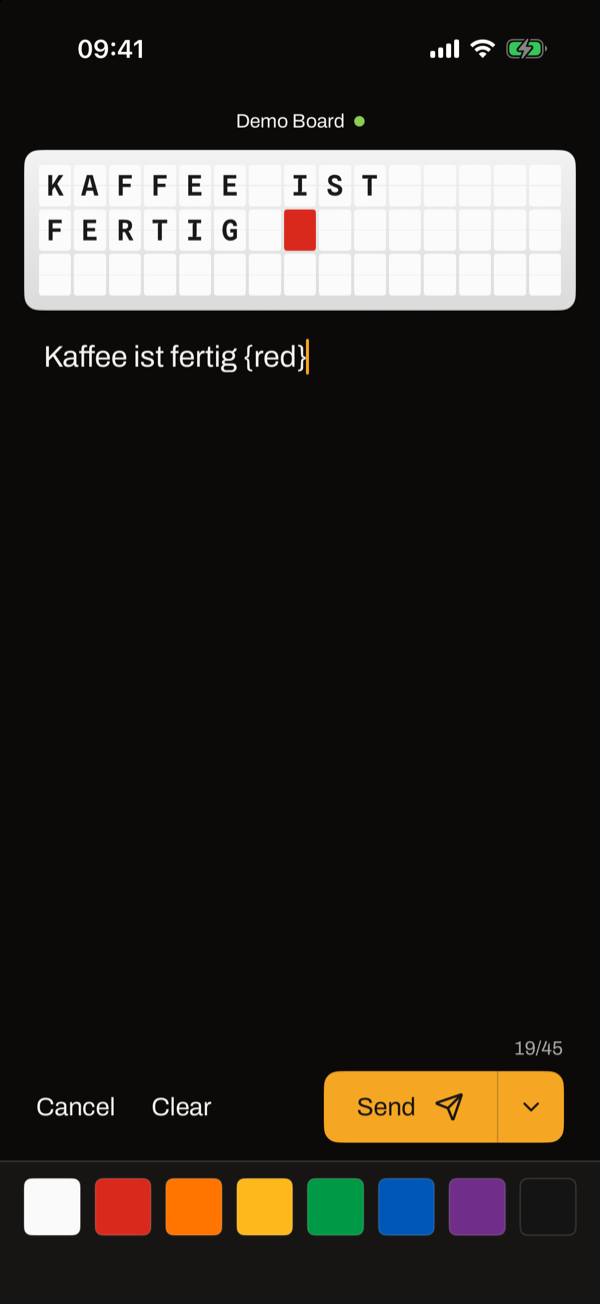
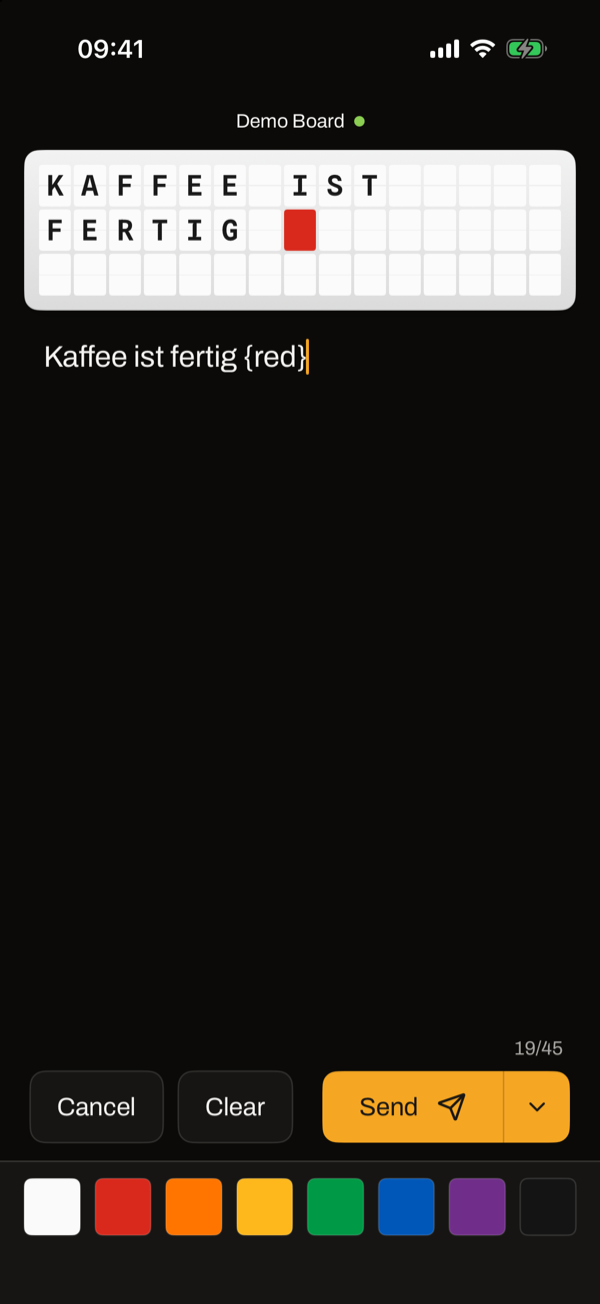
Compose: Cancel and Clear as buttons, in one row with Send where the words fit, else below it
Claude-Session: https://claude.ai/code/session_01FXXeyGX9nkbXjdAycGNCsJ

diff --git a/FiestaBoard/ComposeView.swift b/FiestaBoard/ComposeView.swift
@@ -10,6 +10,22 @@ private struct SendLabelStyle: LabelStyle {
     }
 }
 
+extension View {
+    /// A secondary action as FiestaBoard draws one: outlined, as tall as Send; widening to share a row of its own.
+    func secondaryButton(wide: Bool = false) -> some View {
+        self
+            .font(Style.font(.body))
+            .foregroundStyle(Style.ink)
+            .fixedSize()
+            .padding(.horizontal, 18)
+            .frame(maxWidth: wide ? .infinity : nil)
+            .frame(height: 48)
+            .background(Style.card, in: RoundedRectangle(cornerRadius: Style.radius))
+            .overlay(RoundedRectangle(cornerRadius: Style.radius).stroke(Style.border, lineWidth: 1))
+            .contentShape(Rectangle())
+    }
+}
+
 /// What to start writing from: a new message, a copy of one, or a draft.
 struct ComposeRequest: Identifiable {
     let id = UUID()
@@ -96,56 +112,26 @@ struct ComposeView: View {
             .padding(.horizontal, 24)
             .padding(.vertical, 8)
 
-            HStack(spacing: 24) {
-                Button("Cancel") { dismiss() }
-                    .fixedSize()
-                Button("Clear") { text = "" }
-                    .fixedSize()
-                    .disabled(text.isEmpty)
-                Spacer()
-                HStack(spacing: 0) {
-                    Button(action: submit) {
-                        Group {
-                            if sending {
-                                ProgressView().tint(Style.primaryInk)
-                            } else {
-                                Label {
-                                    Text("Send").fixedSize()
-                                } icon: {
-                                    LucideIcon("send", size: 20, relativeTo: .body)
-                                }
-                                .labelStyle(SendLabelStyle())
-                            }
-                        }
-                        .padding(.horizontal, 22)
-                        .frame(height: 48)
-                        .contentShape(Rectangle())
-                    }
-                    .buttonStyle(.plain)
-                    .disabled(sending || text.trimmingCharacters(in: .whitespacesAndNewlines).isEmpty)
-                    Rectangle().fill(Style.primaryInk.opacity(0.2)).frame(width: 1, height: 48)
-                    Menu {
-                        Button {
-                            library.saveDraft(text, replacing: request.draft)
-                            dismiss()
-                        } label: {
-                            Label("Save Draft", lucide: "save")
-                        }
-                        .disabled(text.isEmpty)
-                    } label: {
-                        LucideIcon("chevron-down", size: 18, relativeTo: .footnote)
-                            .frame(width: 44, height: 48)
-                    }
-                    .accessibilityLabel("More ways to send")
+            // In one row where the words fit, else Send across the width and the other two below it:
+            // German and French words are longer than English ones, and text can be larger.
+            ViewThatFits(in: .horizontal) {
+                HStack(spacing: 10) {
+                    cancelButton(wide: false)
+                    clearButton(wide: false)
+                    Spacer(minLength: 0)
+                    sendButton
                 }
-                .foregroundStyle(Style.primaryInk)
-                .background(Style.primary, in: RoundedRectangle(cornerRadius: Style.radius))
+                VStack(spacing: 10) {
+                    sendButton
+                    HStack(spacing: 10) {
+                        cancelButton(wide: true)
+                        clearButton(wide: true)
+                    }
+                }
             }
-            .foregroundStyle(Style.ink)
             .lineLimit(1)
-            // Larger text, but the buttons stay on one line beside each other.
             .dynamicTypeSize(...DynamicTypeSize.xxLarge)
-            .padding(.horizontal, 24)
+            .padding(.horizontal, 20)
             .padding(.bottom, 12)
 
             HStack(spacing: 10) {
@@ -171,6 +157,70 @@ struct ComposeView: View {
             text = request.text
             writing = true
         }
+    }
+
+    private func cancelButton(wide: Bool) -> some View {
+        Button {
+            dismiss()
+        } label: {
+            Text("Cancel").secondaryButton(wide: wide)
+        }
+        .buttonStyle(.plain)
+    }
+
+    private func clearButton(wide: Bool) -> some View {
+        Button {
+            text = ""
+        } label: {
+            Text("Clear").secondaryButton(wide: wide)
+        }
+        .buttonStyle(.plain)
+        .disabled(text.isEmpty)
+        .opacity(text.isEmpty ? 0.5 : 1)
+    }
+
+    /// Send, and beside it the arrow for Save Draft, in FiestaBoard orange.
+    private var sendButton: some View {
+        HStack(spacing: 0) {
+            Button(action: submit) {
+                Group {
+                    if sending {
+                        ProgressView().tint(Style.primaryInk)
+                    } else {
+                        Label {
+                            // Its whole width, so that a row too narrow for it is seen to be.
+                            Text("Send").fixedSize()
+                        } icon: {
+                            LucideIcon("send", size: 20, relativeTo: .body)
+                        }
+                        .labelStyle(SendLabelStyle())
+                    }
+                }
+                .padding(.horizontal, 22)
+                .frame(maxWidth: .infinity)
+                .frame(height: 48)
+                .contentShape(Rectangle())
+            }
+            .buttonStyle(.plain)
+            .disabled(sending || text.trimmingCharacters(in: .whitespacesAndNewlines).isEmpty)
+            Rectangle().fill(Style.primaryInk.opacity(0.2)).frame(width: 1, height: 48)
+            Menu {
+                Button {
+                    library.saveDraft(text, replacing: request.draft)
+                    dismiss()
+                } label: {
+                    Label("Save Draft", lucide: "save")
+                }
+                .disabled(text.isEmpty)
+            } label: {
+                LucideIcon("chevron-down", size: 18, relativeTo: .footnote)
+                    .frame(width: 44, height: 48)
+            }
+            .accessibilityLabel("More ways to send")
+        }
+        .fixedSize(horizontal: false, vertical: true)
+        .foregroundStyle(Style.primaryInk)
+        .background(Style.primary, in: RoundedRectangle(cornerRadius: Style.radius))
     }
 
     private func submit() {
